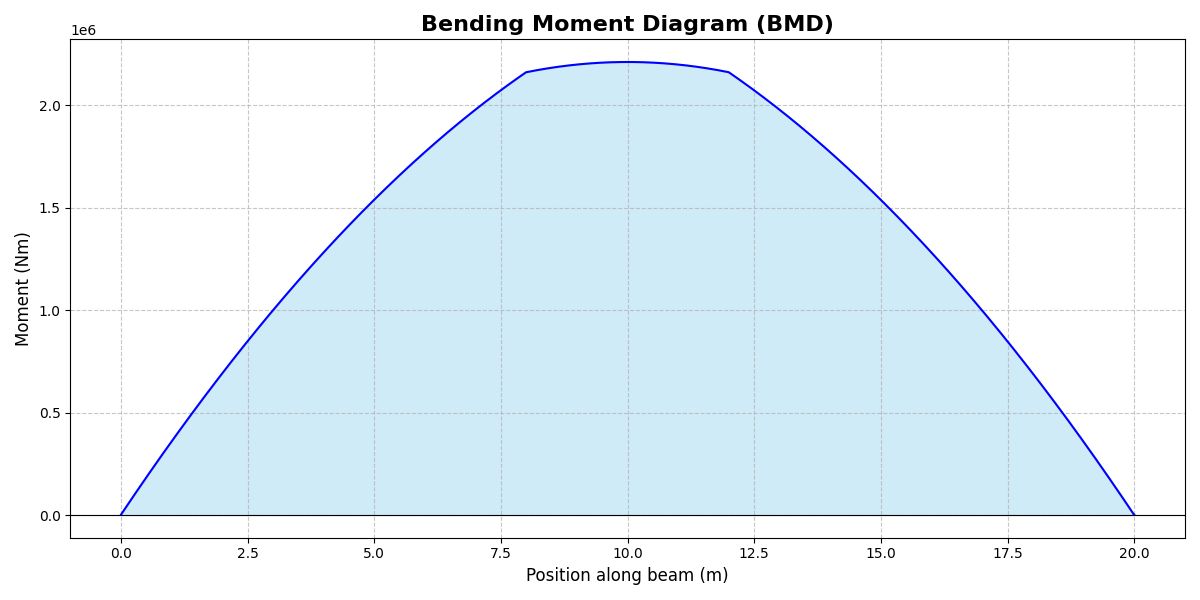
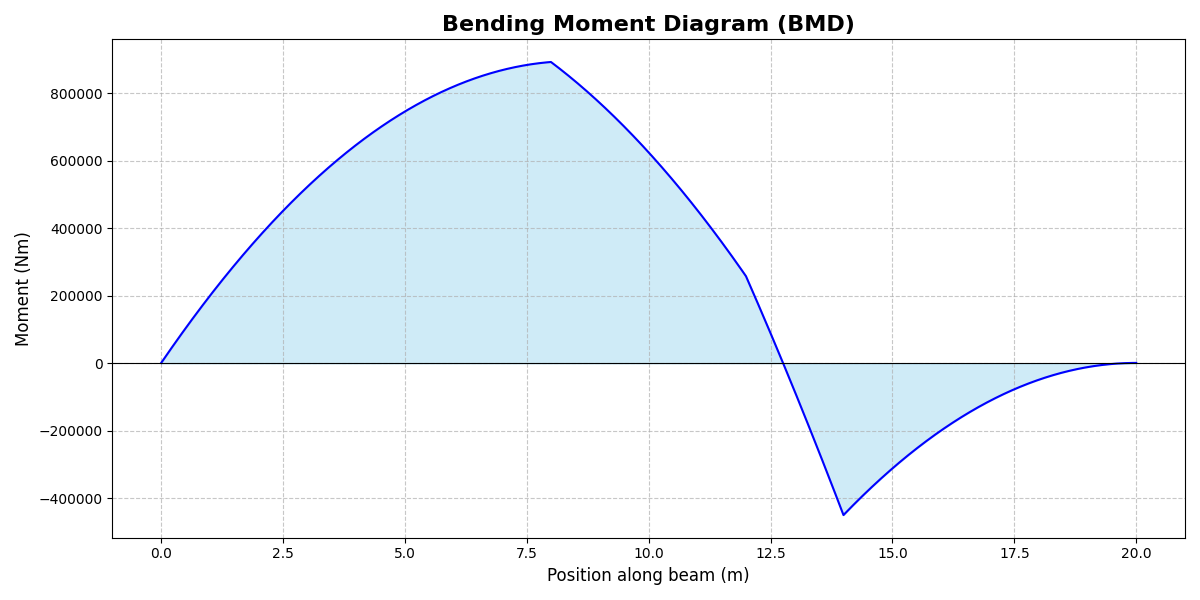
update

diff --git a/output/analysis_report.html b/output/analysis_report.html
@@ -22,14 +22,14 @@
     <body>
         <div class="container">
             <h1>Highway Bridge Girder (Simplified)</h1>
-            <p class="footer">Generated on: 2026-02-22 00:11:14</p>
+            <p class="footer">Generated on: 2026-02-22 00:30:19</p>
 
             <div class="section">
                 <h2>Input Parameters</h2>
                 <h3>Beam Properties</h3>
                 <ul><li><b>Length:</b> 20.0</li><li><b>E:</b> 200e9</li><li><b>I:</b> 0.005</li></ul>
                 <h3>Supports</h3>
-                <ul><li><b>Pinned Support</b> at position 0 m</li><li><b>Roller Support</b> at position 20.0 m</li></ul>
+                <ul><li><b>Pinned Support</b> at position 0 m</li><li><b>Roller Support</b> at position 14.0 m</li></ul>
                 <h3>Loads</h3>
                 <ul><li><b>Distributed Load:</b> -25000 N/m from 0.0 m to 20.0 m</li><li><b>Point Load:</b> -120000 N at 8.0 m</li><li><b>Point Load:</b> -120000 N at 12.0 m</li></ul>
             </div>
@@ -43,11 +43,11 @@
                 <h2>Key Results</h2>
                 <table>
                     <tr><th>Metric</th><th>Value</th></tr>
-                    <tr><td>Maximum Shear Force</td><td>370000.00 N</td></tr>
-                    <tr><td>Minimum Shear Force</td><td>-369875.00 N</td></tr>
-                    <tr><td>Maximum Bending Moment</td><td>2210625.00 Nm</td></tr>
-                    <tr><td>Minimum Bending Moment</td><td>1250.00 Nm</td></tr>
-                    <tr><td>Maximum Deflection</td><td>-89.875 mm</td></tr>
+                    <tr><td>Maximum Shear Force</td><td>211428.57 N</td></tr>
+                    <tr><td>Minimum Shear Force</td><td>-378446.43 N</td></tr>
+                    <tr><td>Maximum Bending Moment</td><td>891928.57 Nm</td></tr>
+                    <tr><td>Minimum Bending Moment</td><td>-449125.00 Nm</td></tr>
+                    <tr><td>Maximum Deflection</td><td>-16.521 mm</td></tr>
                 </table>
             </div>
 
@@ -66,150 +66,150 @@
   <tbody>
     <tr>
       <td>0.0</td>
-      <td>370000.0</td>
-      <td>1850.0</td>
+      <td>211428.5714</td>
+      <td>1057.1429</td>
       <td>0.0000</td>
       <td>0.0000</td>
     </tr>
     <tr>
       <td>1.0</td>
-      <td>345000.0</td>
-      <td>359287.5</td>
-      <td>0.0002</td>
-      <td>-0.0140</td>
+      <td>186428.5714</td>
+      <td>199923.2143</td>
+      <td>0.0001</td>
+      <td>-0.0037</td>
     </tr>
     <tr>
       <td>2.0</td>
-      <td>320000.0</td>
-      <td>691725.0</td>
-      <td>0.0007</td>
-      <td>-0.0277</td>
+      <td>161428.5714</td>
+      <td>373789.2857</td>
+      <td>0.0004</td>
+      <td>-0.0072</td>
     </tr>
     <tr>
       <td>3.0</td>
-      <td>295000.0</td>
-      <td>999162.5</td>
-      <td>0.0016</td>
-      <td>-0.0407</td>
+      <td>136428.5714</td>
+      <td>522655.3571</td>
+      <td>0.0008</td>
+      <td>-0.0103</td>
     </tr>
     <tr>
       <td>4.0</td>
-      <td>270000.0</td>
-      <td>1281600.0</td>
-      <td>0.0027</td>
-      <td>-0.0527</td>
+      <td>111428.5714</td>
+      <td>646521.4286</td>
+      <td>0.0014</td>
+      <td>-0.0129</td>
     </tr>
     <tr>
       <td>5.0</td>
-      <td>245000.0</td>
-      <td>1539037.5</td>
-      <td>0.0041</td>
-      <td>-0.0635</td>
+      <td>86428.5714</td>
+      <td>745387.5000</td>
+      <td>0.0021</td>
+      <td>-0.0149</td>
     </tr>
     <tr>
       <td>6.0</td>
-      <td>220000.0</td>
-      <td>1771475.0</td>
-      <td>0.0058</td>
-      <td>-0.0726</td>
+      <td>61428.5714</td>
+      <td>819253.5714</td>
+      <td>0.0029</td>
+      <td>-0.0161</td>
     </tr>
     <tr>
       <td>7.0</td>
-      <td>195000.0</td>
-      <td>1978912.5</td>
-      <td>0.0077</td>
-      <td>-0.0801</td>
+      <td>36428.5714</td>
+      <td>868119.6429</td>
+      <td>0.0038</td>
+      <td>-0.0165</td>
     </tr>
     <tr>
       <td>8.0</td>
-      <td>50000.0</td>
-      <td>2160750.0</td>
-      <td>0.0097</td>
-      <td>-0.0855</td>
+      <td>-108571.4286</td>
+      <td>891385.7143</td>
+      <td>0.0046</td>
+      <td>-0.0161</td>
     </tr>
     <tr>
       <td>9.0</td>
-      <td>25000.0</td>
-      <td>2198187.5</td>
-      <td>0.0119</td>
-      <td>-0.0888</td>
+      <td>-133571.4286</td>
+      <td>770251.7857</td>
+      <td>0.0055</td>
+      <td>-0.0147</td>
     </tr>
     <tr>
       <td>10.0</td>
-      <td>0.0</td>
-      <td>2210625.0</td>
-      <td>0.0141</td>
-      <td>-0.0899</td>
+      <td>-158571.4286</td>
+      <td>624117.8571</td>
+      <td>0.0062</td>
+      <td>-0.0126</td>
     </tr>
     <tr>
       <td>11.0</td>
-      <td>-25000.0</td>
-      <td>2198062.5</td>
-      <td>0.0163</td>
-      <td>-0.0888</td>
+      <td>-183571.4286</td>
+      <td>452983.9286</td>
+      <td>0.0067</td>
+      <td>-0.0099</td>
     </tr>
     <tr>
       <td>12.0</td>
-      <td>-170000.0</td>
-      <td>2159900.0</td>
-      <td>0.0185</td>
-      <td>-0.0855</td>
+      <td>-328571.4286</td>
+      <td>256250.0000</td>
+      <td>0.0071</td>
+      <td>-0.0067</td>
     </tr>
     <tr>
       <td>13.0</td>
-      <td>-195000.0</td>
-      <td>1977337.5</td>
-      <td>0.0206</td>
-      <td>-0.0800</td>
+      <td>-353571.4286</td>
+      <td>-84883.9286</td>
+      <td>0.0072</td>
+      <td>-0.0033</td>
     </tr>
     <tr>
       <td>14.0</td>
-      <td>-220000.0</td>
-      <td>1769775.0</td>
-      <td>0.0224</td>
-      <td>-0.0726</td>
+      <td>150000.0000</td>
+      <td>-448375.0000</td>
+      <td>0.0069</td>
+      <td>0.0000</td>
     </tr>
     <tr>
       <td>15.0</td>
-      <td>-245000.0</td>
-      <td>1537212.5</td>
-      <td>0.0241</td>
-      <td>-0.0634</td>
+      <td>125000.0000</td>
+      <td>-310937.5000</td>
+      <td>0.0065</td>
+      <td>0.0030</td>
     </tr>
     <tr>
       <td>16.0</td>
-      <td>-270000.0</td>
-      <td>1279650.0</td>
-      <td>0.0255</td>
-      <td>-0.0527</td>
+      <td>100000.0000</td>
+      <td>-198500.0000</td>
+      <td>0.0063</td>
+      <td>0.0056</td>
     </tr>
     <tr>
       <td>17.0</td>
-      <td>-295000.0</td>
-      <td>997087.5</td>
-      <td>0.0267</td>
-      <td>-0.0407</td>
+      <td>75000.0000</td>
+      <td>-111062.5000</td>
+      <td>0.0061</td>
+      <td>0.0080</td>
     </tr>
     <tr>
       <td>18.0</td>
-      <td>-320000.0</td>
-      <td>689525.0</td>
-      <td>0.0275</td>
-      <td>-0.0277</td>
+      <td>50000.0000</td>
+      <td>-48625.0000</td>
+      <td>0.0060</td>
+      <td>0.0104</td>
     </tr>
     <tr>
       <td>19.0</td>
-      <td>-345000.0</td>
-      <td>356962.5</td>
-      <td>0.0280</td>
-      <td>-0.0140</td>
+      <td>25000.0000</td>
+      <td>-11187.5000</td>
+      <td>0.0060</td>
+      <td>0.0126</td>
     </tr>
     <tr>
       <td>20.0</td>
-      <td>0.0</td>
-      <td>1250.0</td>
-      <td>0.0282</td>
       <td>0.0000</td>
+      <td>1250.0000</td>
+      <td>0.0060</td>
+      <td>0.0149</td>
     </tr>
   </tbody>
 </table>
